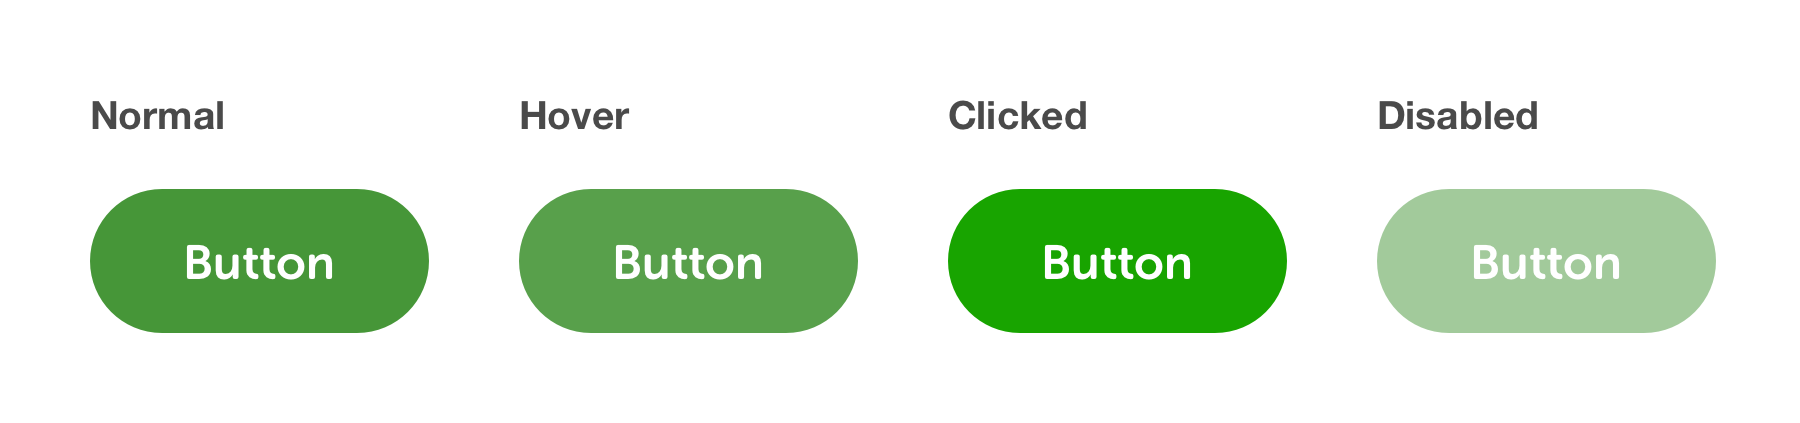
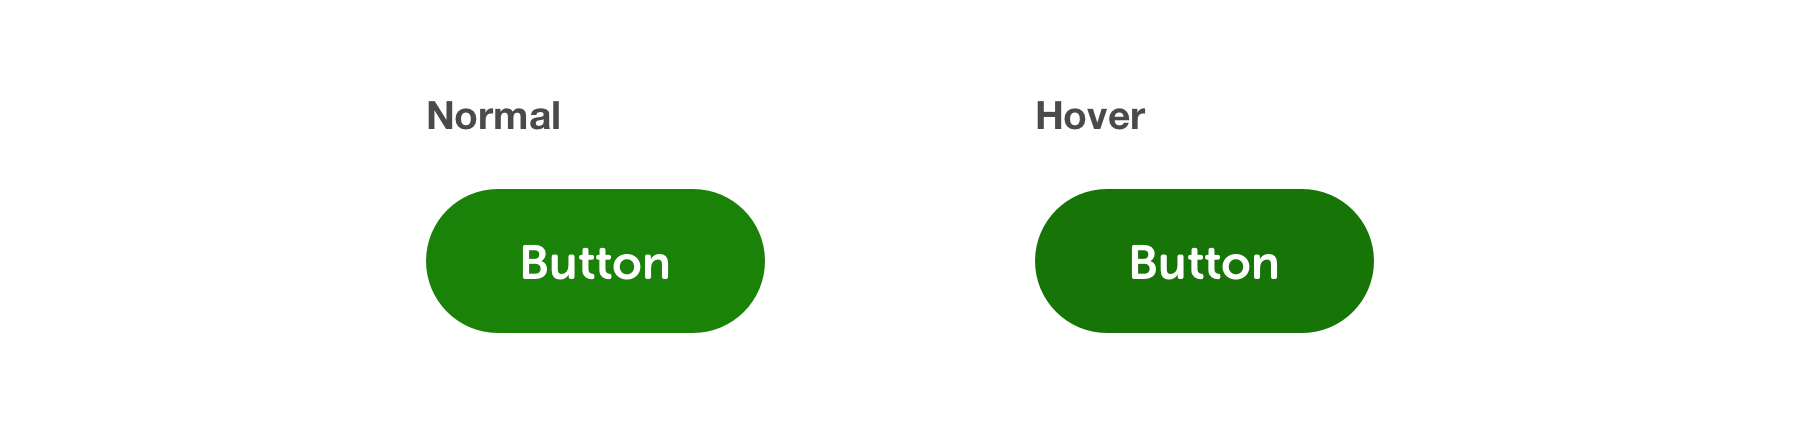
GitBook: [master] one page and 11 assets modified

diff --git a/website-patterns/buttons/buttons.md b/website-patterns/buttons/buttons.md
@@ -67,21 +67,98 @@ color: $secondaryBlue;
 border: 2px solid $secondaryBlue;
 
 /* Hover */
-background-color: #FFF (80% opacity);
-
-/* Clicked */
-background-color: #F5F5F5;
+background-color: #E5E5E5;
 ```
 
 ### Dark theme
 
-![](../../.gitbook/assets/secondary-button-dark.png)
+![](../../.gitbook/assets/secondary-button-dark%20%281%29.png)
 
-{% hint style="danger" %}
-**Editor's note:** the styling of this button needs defining.
-{% endhint %}
+```css
+/* Normal */
+background-color: $primaryBlue;
+color: #FFF;
+border: 2px solid #FFF;
 
-## Secondary button \(alternate\)
+/* Hover */
+background-color: #003E79;
+```
+
+## Destructive button
+
+* Used to represent actions that are destructive and non-recoverable.
+
+### Light theme
+
+![](../../.gitbook/assets/destructive-button.png)
+
+```css
+/* Normal */
+background-color: $alertRed;
+color: #FFF;
+
+/* Hover */
+background-color: #C7161C;
+```
+
+### Dark theme
+
+![](../../.gitbook/assets/destructive-button-dark.png)
+
+```css
+/* Styling is as per 'light' theme plus */
+border: 2px solid #FFF;
+```
+
+## Conversion button
+
+* Used on the penultimate screen of an acquisition, application or process journey, usually on a review or confirm screen.
+* This is the only button style that has a 'disabled' state.
+* The button is presented as disabled if the user needs to complete one or more actions on the review/confirm screen before completing the process.
+
+### Light theme
+
+![](../../.gitbook/assets/conversion-button.png)
+
+```css
+/* Normal */
+background-color: $primaryGreen;
+color: #FFFFFF;
+
+/* Hover */
+background-color: #177407;
+```
+
+### Dark theme
+
+![](../../.gitbook/assets/conversion-button-dark.png)
+
+```css
+/* Styling is as per 'light' theme plus */
+border: 2px solid #FFF;
+```
+
+## Cancel button  \(DEPRECIATED?\)
+
+* Used to cancel an entire process.
+
+![](../../.gitbook/assets/cancel-button.png)
+
+```css
+/* Normal */
+color: $secondaryMidGrey;
+
+/* Hover */
+background-color: $secondaryLightGrey;
+border: 2px solid #E8E8E8;
+
+/* Clicked */
+border: 2px solid #D3D3D3;
+```
+
+
+
+## Secondary button \(alternate\) \(DEPRECIATED?\)
 
 * An alternative to the regular secondary button style, can be used where there is a less important actions compared to a regular secondary button.
 
@@ -101,96 +178,6 @@ border: 2px solid $secondaryMidGrey;
 
 /* Clicked */
 background-color: $secondaryLightGrey;
-border: 2px solid #D3D3D3;
-```
-
-## Destructive action button
-
-* Used to represent actions that are destructive and non-recoverable.
-
-### Light theme
-
-![](../../.gitbook/assets/destructive-button.png)
-
-```css
-/* Normal */
-background-color: $alertRed;
-color: #FFFFFF;
-
-/* Hover */
-background-color: $alertRed (90% opacity);
-
-/* Clicked */
-background-color: #CC0000;
-```
-
-### Dark theme
-
-![](../../.gitbook/assets/destructive-button-dark.png)
-
-```css
-/* Styling is as per 'light' theme plus */
-border: 2px solid #FFF;
-```
-
-## Conversion button
-
-* Used on the penultimate screen of an acquisition, application or process journey, usually on a review or confirm screen.
-* This is the only button style that has a 'disabled' state.
-* The button is presented as disabled if the user needs to complete one or more actions on the review/confirm screen before completing the process.
-* **Care should be taken when using the disabled state** – in general, disabling UI elements can confuse users and offer no explanation of why they're disabled or what the user needs to do to proceed.
-
-### Light theme
-
-![](../../.gitbook/assets/conversion-button.png)
-
-```css
-/* Normal */
-background-color: $primaryGreen;
-color: #FFFFFF;
-
-/* Hover */
-background-color: $primaryGreen (90% opacity);
-
-/* Clicked */
-background-color: #18A400;
-
-/* Disabled */
-background-color: $primaryGreen (50% opacity);
-```
-
-### Dark theme
-
-```css
-/* Normal */
-background-color: $primaryGreen;
-color: #FFFFFF;
-
-/* Hover */
-background-color: $primaryGreen (90% opacity);
-
-/* Clicked */
-background-color: #18A400;
-
-/* Disabled */
-background-color: $primaryGreen (50% opacity);
-```
-
-## Cancel button
-
-* Used to cancel an entire process.
-
-![](../../.gitbook/assets/cancel-button.png)
-
-```css
-/* Normal */
-color: $secondaryMidGrey;
-
-/* Hover */
-background-color: $secondaryLightGrey;
-border: 2px solid #E8E8E8;
-
-/* Clicked */
 border: 2px solid #D3D3D3;
 ```
 
